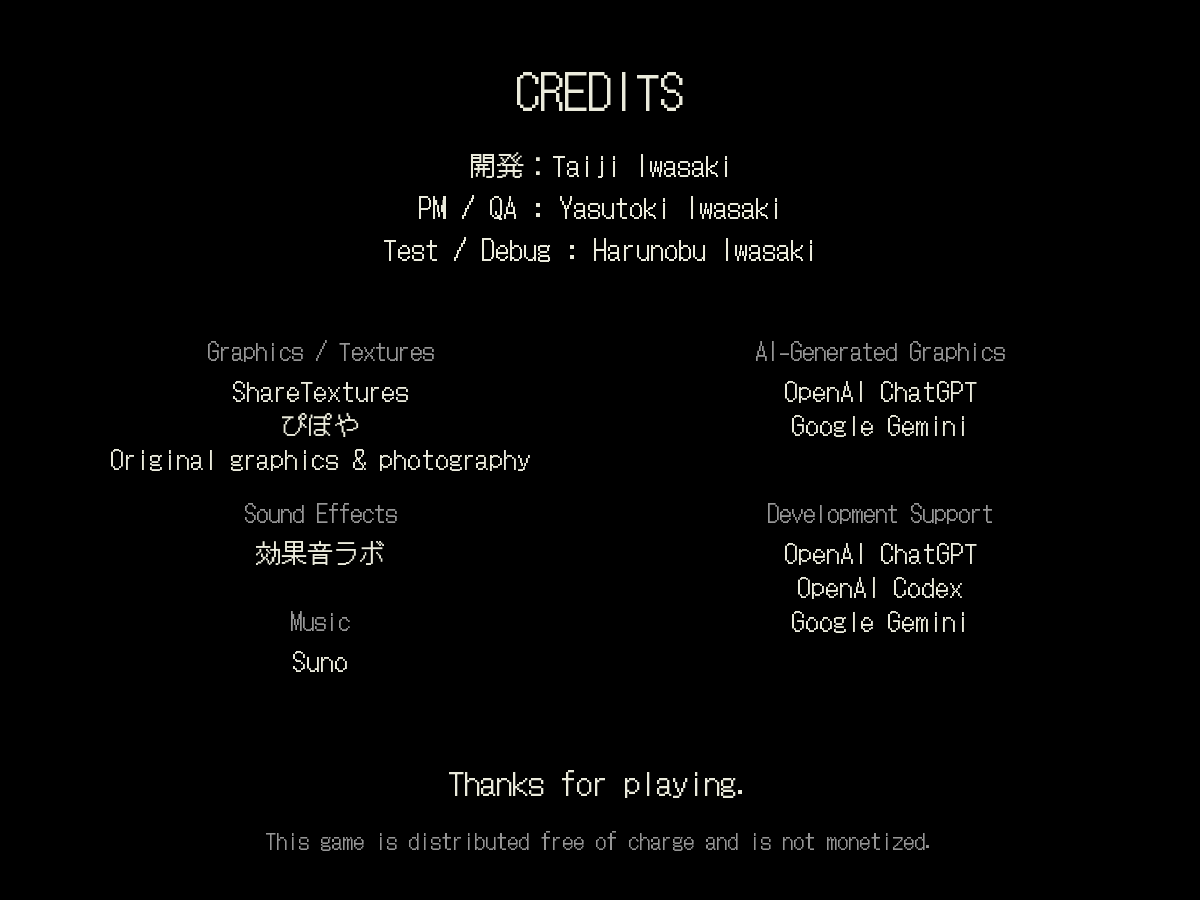
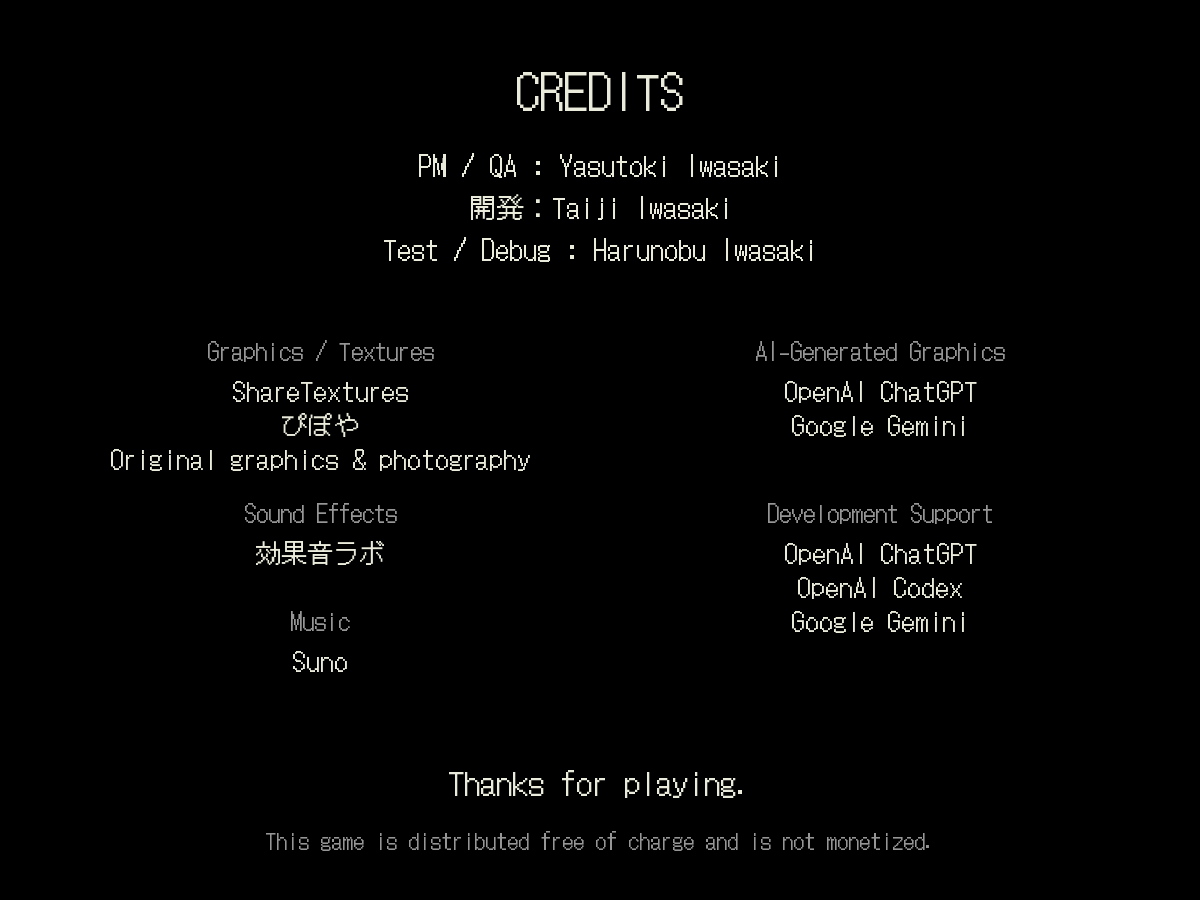
Finalize credits and release documentation

Changed region(s): [[0.4625, 0.1556, 0.6475, 0.2489], [0.3392, 0.1556, 0.4317, 0.2489]]

diff --git a/tools/create_ending_credits.py b/tools/create_ending_credits.py
@@ -20,8 +20,8 @@ def main():
         canvas.blit(surface, rect)
 
     line("CREDITS", 54, 48)
-    line("開発：Taiji Iwasaki", 143)
-    line("PM / QA : Yasutoki Iwasaki", 185)
+    line("PM / QA : Yasutoki Iwasaki", 143)
+    line("開発：Taiji Iwasaki", 185)
     line("Test / Debug : Harunobu Iwasaki", 227)
     groups = [
         (320, 332, "Graphics / Textures", ["ShareTextures", "ぴぽや", "Original graphics & photography"]),

diff --git a/README.md b/README.md
@@ -4,6 +4,8 @@ Pygameで制作している、物語重視の2DローグライクRPGです。
 
 行方不明になった父の足跡を追い、冒険者ギルドで依頼をこなしながら、全99階層のダンジョン最深部を目指します。装備収集・鍛冶・ランク昇格・状態異常などを活用し、その場の状況に合わせて進むターン制ゲームです。
 
+> **2026/10/4 — Iwasaki Yasutoki リリース承認済み**
+
 ## ゲームの特徴
 
 - ギルドの依頼を達成して冒険者ランクを上げ、より深い階層へ挑戦
@@ -12,7 +14,9 @@ Pygameで制作している、物語重視の2DローグライクRPGです。
 - 鍛冶屋で装備を強化し、通常鉱石と黄金鉱石を使い分けて育成
 - 毒・麻痺・混乱・封印などの状態異常、罠、モンスター大量発生、特殊行動を持つ敵
 - 「転移の石」や「復活のお守り」など、探索を支えるレアアイテム
-- 地下50階の父親イベント、地下99階の最終ボス、選択によって変化するエンディング
+- 地下50階の父親イベント、地下99階の最終ボス、選択によって変化するエンディングとクレジット
+- ラスボス専用の魔法カウンター、ライフスティール、現在HP割合攻撃
+- エンディングクリア後は敵のHP・攻撃力・防御力が20%ずつ上がる周回難易度
 - セーブ／ロード、ロード中のプログレスバー、キー連打を抑制するUI入力制御
 
 ## 基本操作
@@ -142,6 +146,10 @@ bash tests/run_tests.sh changed
 
 ## 最近の主な改善
 
+- エンディングの最後にクレジット画面を追加
+- ラスボスの行動、魔法カウンター、ライフスティール、割合攻撃を調整
+- 2周目以降はクリアごとに敵のHP・攻撃力・防御力が20%上昇
+- 57F以降のランダム生成階層で、床アイテム出現倍率を0.4に統一
 - ダンジョン素材読み込み中のプログレスバーを追加
 - メニュー操作に入力間隔を設け、連続入力によるフリーズや誤操作を抑制
 - 敵の近距離・遠距離攻撃倍率を一か所で調整できるよう変更
